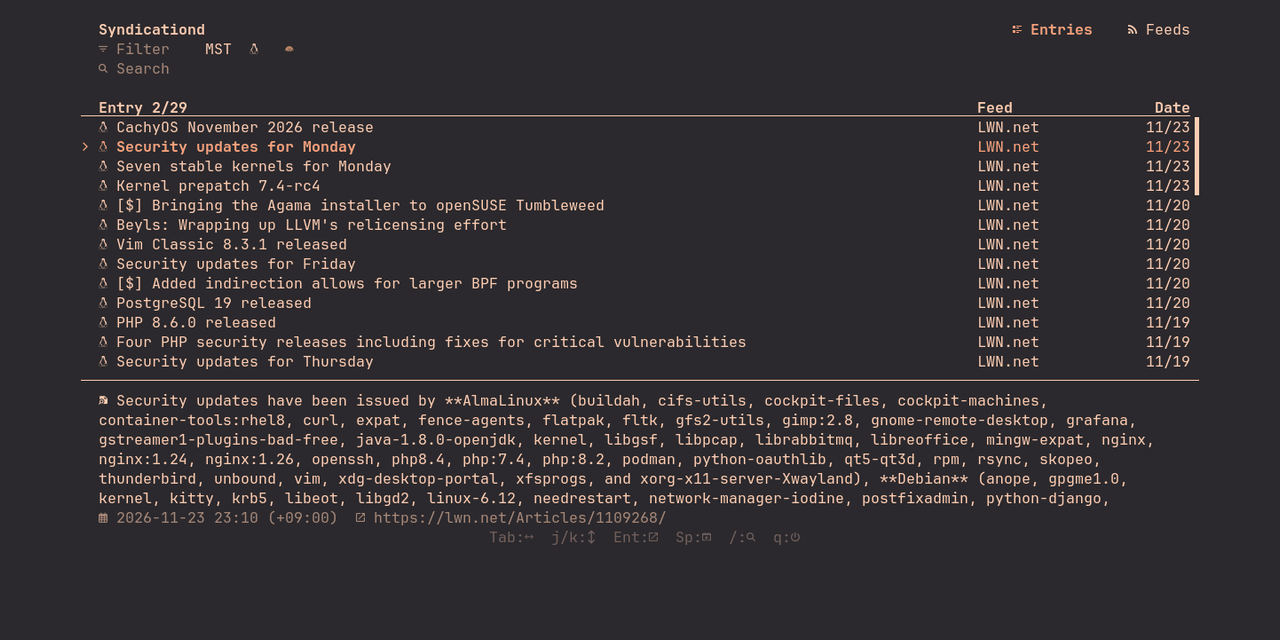
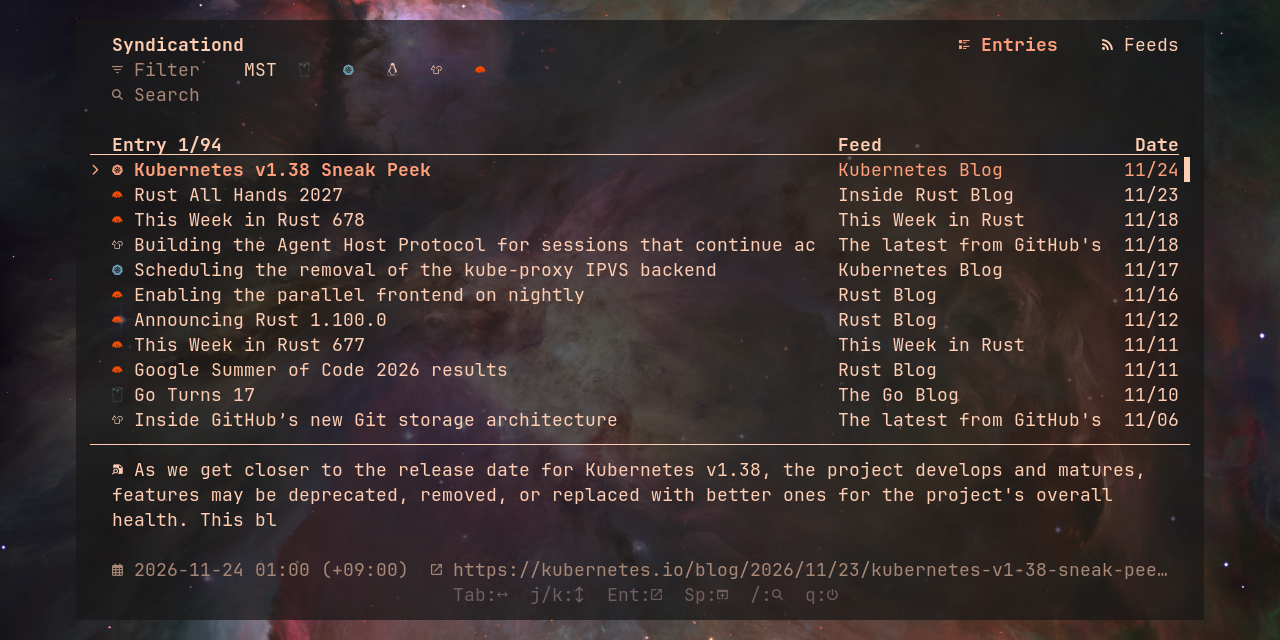
chore: capture screenshots for the README and social preview
Assisted-by: Codex:gpt-6.2-astra

diff --git a/README.md b/README.md
@@ -9,7 +9,7 @@
 [![Audit][workflow-audit-badge]][workflow-audit-url]
 [![Coverage][coverage-badge]][coverage-url]
 
-![Demo](https://raw.githubusercontent.com/ymgyt/syndicationd/main/etc/demo/demo.gif)
+![Syndicationd showing feed entries and the selected article's summary](https://raw.githubusercontent.com/ymgyt/syndicationd/main/etc/demo/readme.png)
 
 Syndicationd is a TUI feed viewer, based on [feed-rs](https://github.com/feed-rs/feed-rs) and [ratatui](https://github.com/ratatui-org/ratatui).
 It also provides a CLI and an MCP server.
